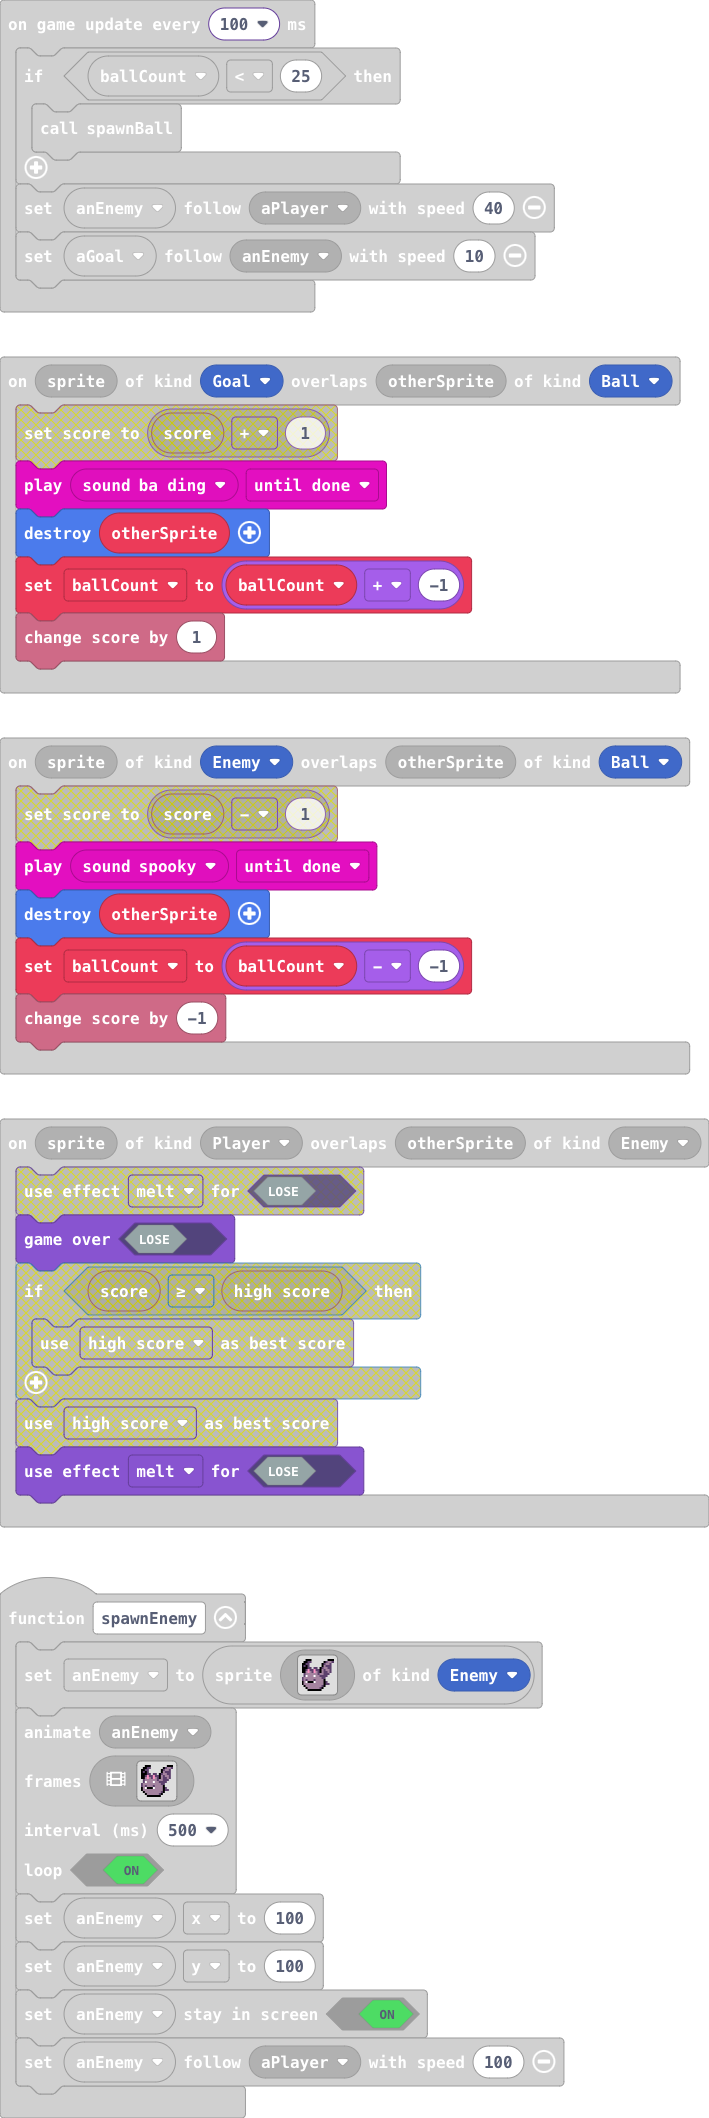
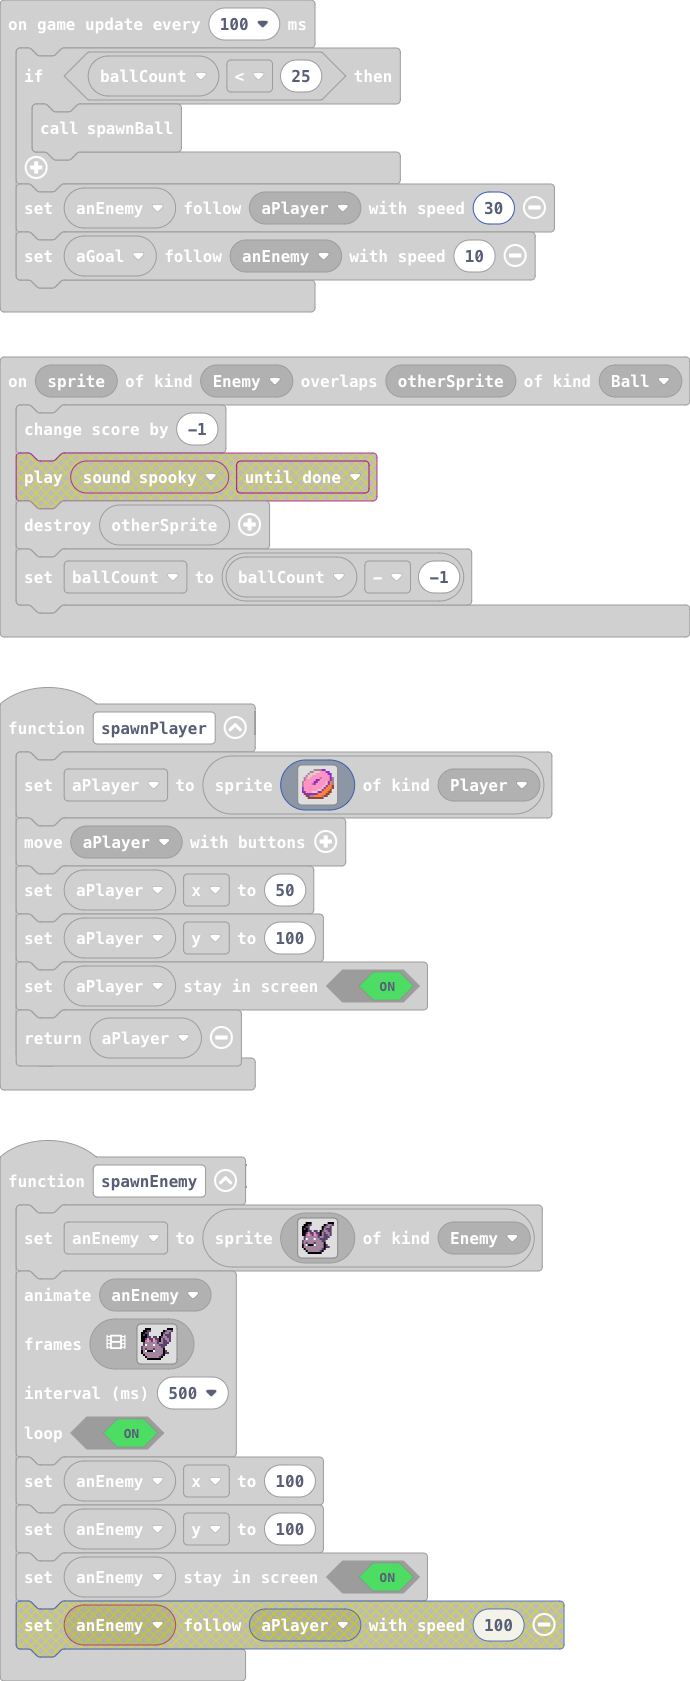
Update main.blocks, main.ts

diff --git a/main.ts b/main.ts
@@ -41,7 +41,6 @@ function spawnBall () {
 }
 sprites.onOverlap(SpriteKind.Enemy, SpriteKind.Ball, function (sprite, otherSprite) {
     info.changeScoreBy(-1)
-    music.play(music.melodyPlayable(music.spooky), music.PlaybackMode.UntilDone)
     sprites.destroy(otherSprite)
     ballCount = ballCount - -1
 })
@@ -119,21 +118,21 @@ function spawnGoal () {
 }
 function spawnPlayer () {
     aPlayer = sprites.create(img`
-        . . . . . . . . . . . . . . . . 
-        . . . . . . . 3 . . 3 3 . . . . 
-        . . . . . . 3 3 . . 2 3 . . . . 
-        . . . . . . 2 2 . 2 2 2 . . . . 
-        . . . . . . . . . . . . . . . . 
-        . . 2 2 . . . . . . . . . . . . 
-        . . 2 2 . . . . . . . . . . . 2 
-        . . 2 2 2 3 3 3 3 3 3 3 3 3 3 2 
-        . . 2 2 2 f f f f f f f f f 2 2 
-        . . 2 2 2 2 2 2 2 2 2 2 2 2 2 2 
-        . . . . . . . . . . . . . . . . 
-        . . . . . . . . . . . . . . . . 
-        . . . . . . . . . . . . . . . . 
-        . . . . . . . . . . . . . . . . 
-        . . . . . . . . . . . . . . . . 
+        . . . . . . b b b b a a . . . . 
+        . . . . b b d d d 3 3 3 a a . . 
+        . . . b d d d 3 3 3 3 3 3 a a . 
+        . . b d d 3 3 3 3 3 3 3 3 3 a . 
+        . b 3 d 3 3 3 3 3 b 3 3 3 3 a b 
+        . b 3 3 3 3 3 a a 3 3 3 3 3 a b 
+        b 3 3 3 3 3 a a 3 3 3 3 d a 4 b 
+        b 3 3 3 3 b a 3 3 3 3 3 d a 4 b 
+        b 3 3 3 3 3 3 3 3 3 3 d a 4 4 e 
+        a 3 3 3 3 3 3 3 3 3 d a 4 4 4 e 
+        a 3 3 3 3 3 3 3 d d a 4 4 4 e . 
+        a a 3 3 3 d d d a a 4 4 4 e e . 
+        . e a a a a a a 4 4 4 4 e e . . 
+        . . e e b b 4 4 4 4 b e e . . . 
+        . . . e e e e e e e e . . . . . 
         . . . . . . . . . . . . . . . . 
         `, SpriteKind.Player)
     controller.moveSprite(aPlayer)
@@ -289,7 +288,6 @@ function spawnEnemy () {
     anEnemy.x = 100
     anEnemy.y = 100
     anEnemy.setStayInScreen(true)
-    anEnemy.follow(aPlayer, 100)
 }
 sprites.onOverlap(SpriteKind.Player, SpriteKind.Enemy, function (sprite, otherSprite) {
     game.setGameOverEffect(false, effects.melt)
@@ -430,6 +428,6 @@ game.onUpdateInterval(100, function () {
     if (ballCount < 25) {
         spawnBall()
     }
-    anEnemy.follow(aPlayer, 40)
+    anEnemy.follow(aPlayer, 30)
     aGoal.follow(anEnemy, 10)
 })
